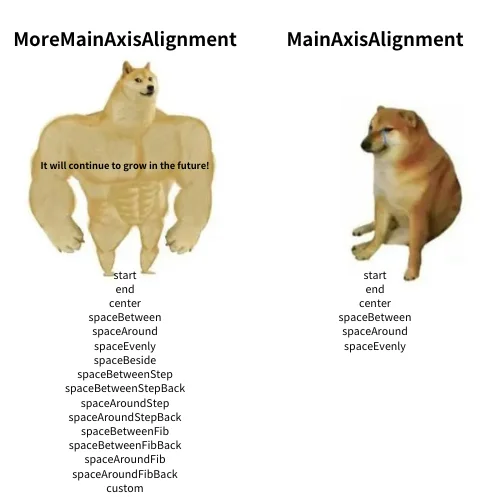
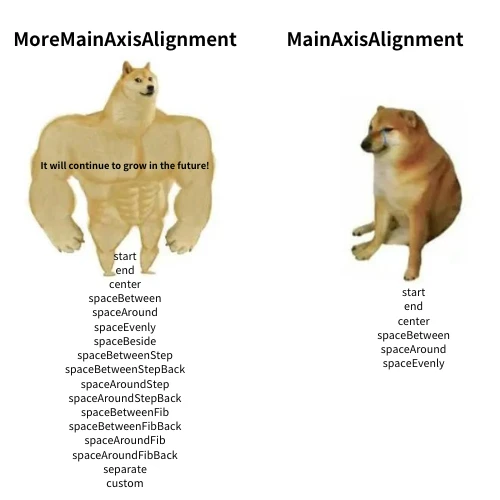
feat mode separate widget test

Changed region(s): [[0.12, 0.51, 0.39, 0.99], [0.66, 0.54, 0.9, 0.75]]

diff --git a/test/mode_separate_test.dart b/test/mode_separate_test.dart
@@ -1,0 +1,195 @@
+import 'package:flutter/material.dart';
+import 'package:flutter/rendering.dart';
+import 'package:flutter_test/flutter_test.dart';
+import 'package:more_main_axis_alignment/more_main_axis_alignment.dart';
+
+void main() {
+  testWidgets('separate', (WidgetTester tester) async {
+    const Key flexKey = Key('flex');
+    const Key child0Key = Key('child0');
+    const Key child1Key = Key('child1');
+    const Key child2Key = Key('child2');
+
+    await tester.pumpWidget(const Center(
+      child: MoreFlex(
+        key: flexKey,
+        direction: Axis.horizontal,
+        textDirection: TextDirection.ltr,
+        moreMainAxisAlignment: MoreMainAxisAlignment.separate,
+        separateCount: 1,
+        children: <Widget>[
+          SizedBox(key: child0Key, width: 100.0, height: 100.0),
+          SizedBox(key: child1Key, width: 100.0, height: 100.0),
+          SizedBox(key: child2Key, width: 100.0, height: 100.0),
+        ],
+      ),
+    ));
+
+    RenderBox renderBox;
+    BoxParentData boxParentData;
+
+    renderBox = tester.renderObject(find.byKey(flexKey));
+    expect(renderBox.size.width, equals(800.0));
+    expect(renderBox.size.height, equals(100.0));
+
+    renderBox = tester.renderObject(find.byKey(child0Key));
+    expect(renderBox.size.width, equals(100.0));
+    expect(renderBox.size.height, equals(100.0));
+    boxParentData = renderBox.parentData! as BoxParentData;
+    expect(boxParentData.offset.dx, equals(0.0));
+
+    renderBox = tester.renderObject(find.byKey(child1Key));
+    expect(renderBox.size.width, equals(100.0));
+    expect(renderBox.size.height, equals(100.0));
+    boxParentData = renderBox.parentData! as BoxParentData;
+    expect(boxParentData.offset.dx, equals(100.0));
+
+    renderBox = tester.renderObject(find.byKey(child2Key));
+    expect(renderBox.size.width, equals(100.0));
+    expect(renderBox.size.height, equals(100.0));
+    boxParentData = renderBox.parentData! as BoxParentData;
+    expect(boxParentData.offset.dx, equals(700.0));
+  });
+
+  testWidgets("separate is equal to children's length",
+      (WidgetTester tester) async {
+    const Key flexKey = Key('flex');
+    const Key child0Key = Key('child0');
+    const Key child1Key = Key('child1');
+    const Key child2Key = Key('child2');
+
+    await tester.pumpWidget(const Center(
+      child: MoreFlex(
+        key: flexKey,
+        direction: Axis.horizontal,
+        textDirection: TextDirection.ltr,
+        moreMainAxisAlignment: MoreMainAxisAlignment.separate,
+        separateCount: 3,
+        children: <Widget>[
+          SizedBox(key: child0Key, width: 100.0, height: 100.0),
+          SizedBox(key: child1Key, width: 100.0, height: 100.0),
+          SizedBox(key: child2Key, width: 100.0, height: 100.0),
+        ],
+      ),
+    ));
+
+    RenderBox renderBox;
+    BoxParentData boxParentData;
+
+    renderBox = tester.renderObject(find.byKey(flexKey));
+    expect(renderBox.size.width, equals(800.0));
+    expect(renderBox.size.height, equals(100.0));
+
+    renderBox = tester.renderObject(find.byKey(child0Key));
+    expect(renderBox.size.width, equals(100.0));
+    expect(renderBox.size.height, equals(100.0));
+    boxParentData = renderBox.parentData! as BoxParentData;
+    expect(boxParentData.offset.dx, equals(500.0));
+
+    renderBox = tester.renderObject(find.byKey(child1Key));
+    expect(renderBox.size.width, equals(100.0));
+    expect(renderBox.size.height, equals(100.0));
+    boxParentData = renderBox.parentData! as BoxParentData;
+    expect(boxParentData.offset.dx, equals(600.0));
+
+    renderBox = tester.renderObject(find.byKey(child2Key));
+    expect(renderBox.size.width, equals(100.0));
+    expect(renderBox.size.height, equals(100.0));
+    boxParentData = renderBox.parentData! as BoxParentData;
+    expect(boxParentData.offset.dx, equals(700.0));
+  });
+
+  testWidgets('separateCount more than children', (WidgetTester tester) async {
+    const Key flexKey = Key('flex');
+    const Key child0Key = Key('child0');
+    const Key child1Key = Key('child1');
+    const Key child2Key = Key('child2');
+
+    await tester.pumpWidget(const Center(
+      child: MoreFlex(
+        key: flexKey,
+        direction: Axis.horizontal,
+        textDirection: TextDirection.ltr,
+        moreMainAxisAlignment: MoreMainAxisAlignment.separate,
+        separateCount: 100,
+        children: <Widget>[
+          SizedBox(key: child0Key, width: 100.0, height: 100.0),
+          SizedBox(key: child1Key, width: 100.0, height: 100.0),
+          SizedBox(key: child2Key, width: 100.0, height: 100.0),
+        ],
+      ),
+    ));
+
+    RenderBox renderBox;
+    BoxParentData boxParentData;
+
+    renderBox = tester.renderObject(find.byKey(flexKey));
+    expect(renderBox.size.width, equals(800.0));
+    expect(renderBox.size.height, equals(100.0));
+
+    renderBox = tester.renderObject(find.byKey(child0Key));
+    expect(renderBox.size.width, equals(100.0));
+    expect(renderBox.size.height, equals(100.0));
+    boxParentData = renderBox.parentData! as BoxParentData;
+    expect(boxParentData.offset.dx, equals(0.0));
+
+    renderBox = tester.renderObject(find.byKey(child1Key));
+    expect(renderBox.size.width, equals(100.0));
+    expect(renderBox.size.height, equals(100.0));
+    boxParentData = renderBox.parentData! as BoxParentData;
+    expect(boxParentData.offset.dx, equals(100.0));
+
+    renderBox = tester.renderObject(find.byKey(child2Key));
+    expect(renderBox.size.width, equals(100.0));
+    expect(renderBox.size.height, equals(100.0));
+    boxParentData = renderBox.parentData! as BoxParentData;
+    expect(boxParentData.offset.dx, equals(200.0));
+  });
+
+  testWidgets('separateCount is negative', (WidgetTester tester) async {
+    const Key flexKey = Key('flex');
+    const Key child0Key = Key('child0');
+    const Key child1Key = Key('child1');
+    const Key child2Key = Key('child2');
+
+    await tester.pumpWidget(const Center(
+      child: MoreFlex(
+        key: flexKey,
+        direction: Axis.horizontal,
+        textDirection: TextDirection.ltr,
+        moreMainAxisAlignment: MoreMainAxisAlignment.separate,
+        separateCount: -10,
+        children: <Widget>[
+          SizedBox(key: child0Key, width: 100.0, height: 100.0),
+          SizedBox(key: child1Key, width: 100.0, height: 100.0),
+          SizedBox(key: child2Key, width: 100.0, height: 100.0),
+        ],
+      ),
+    ));
+
+    RenderBox renderBox;
+    BoxParentData boxParentData;
+
+    renderBox = tester.renderObject(find.byKey(flexKey));
+    expect(renderBox.size.width, equals(800.0));
+    expect(renderBox.size.height, equals(100.0));
+
+    renderBox = tester.renderObject(find.byKey(child0Key));
+    expect(renderBox.size.width, equals(100.0));
+    expect(renderBox.size.height, equals(100.0));
+    boxParentData = renderBox.parentData! as BoxParentData;
+    expect(boxParentData.offset.dx, equals(0.0));
+
+    renderBox = tester.renderObject(find.byKey(child1Key));
+    expect(renderBox.size.width, equals(100.0));
+    expect(renderBox.size.height, equals(100.0));
+    boxParentData = renderBox.parentData! as BoxParentData;
+    expect(boxParentData.offset.dx, equals(100.0));
+
+    renderBox = tester.renderObject(find.byKey(child2Key));
+    expect(renderBox.size.width, equals(100.0));
+    expect(renderBox.size.height, equals(100.0));
+    boxParentData = renderBox.parentData! as BoxParentData;
+    expect(boxParentData.offset.dx, equals(200.0));
+  });
+}

diff --git a/README.md b/README.md
@@ -12,7 +12,7 @@ Add the package to your pubspec.yaml:
 
 ```yaml
 dependencies:
-  more_main_axis_alignment: 0.0.2
+  more_main_axis_alignment: 1.0.0
 ```
 
 In your dart file, import the library:
